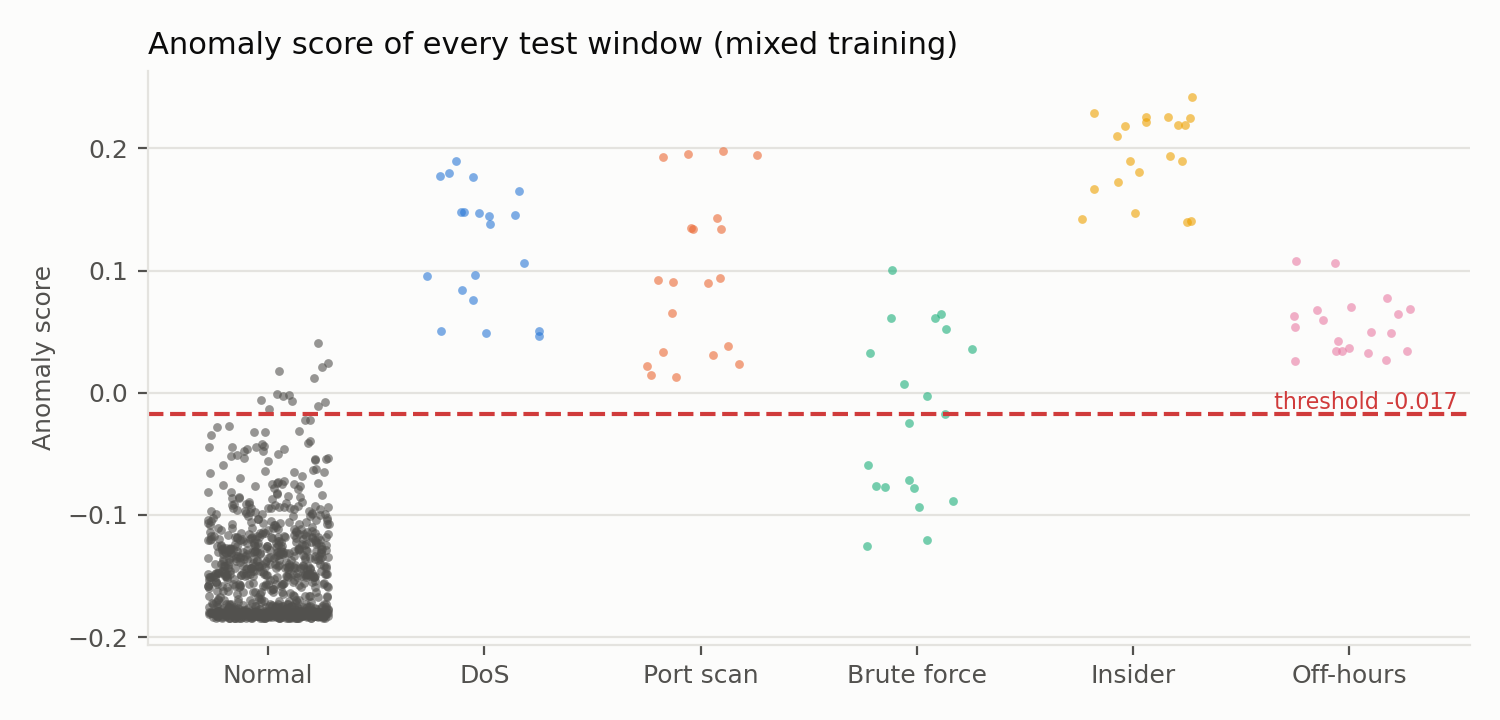
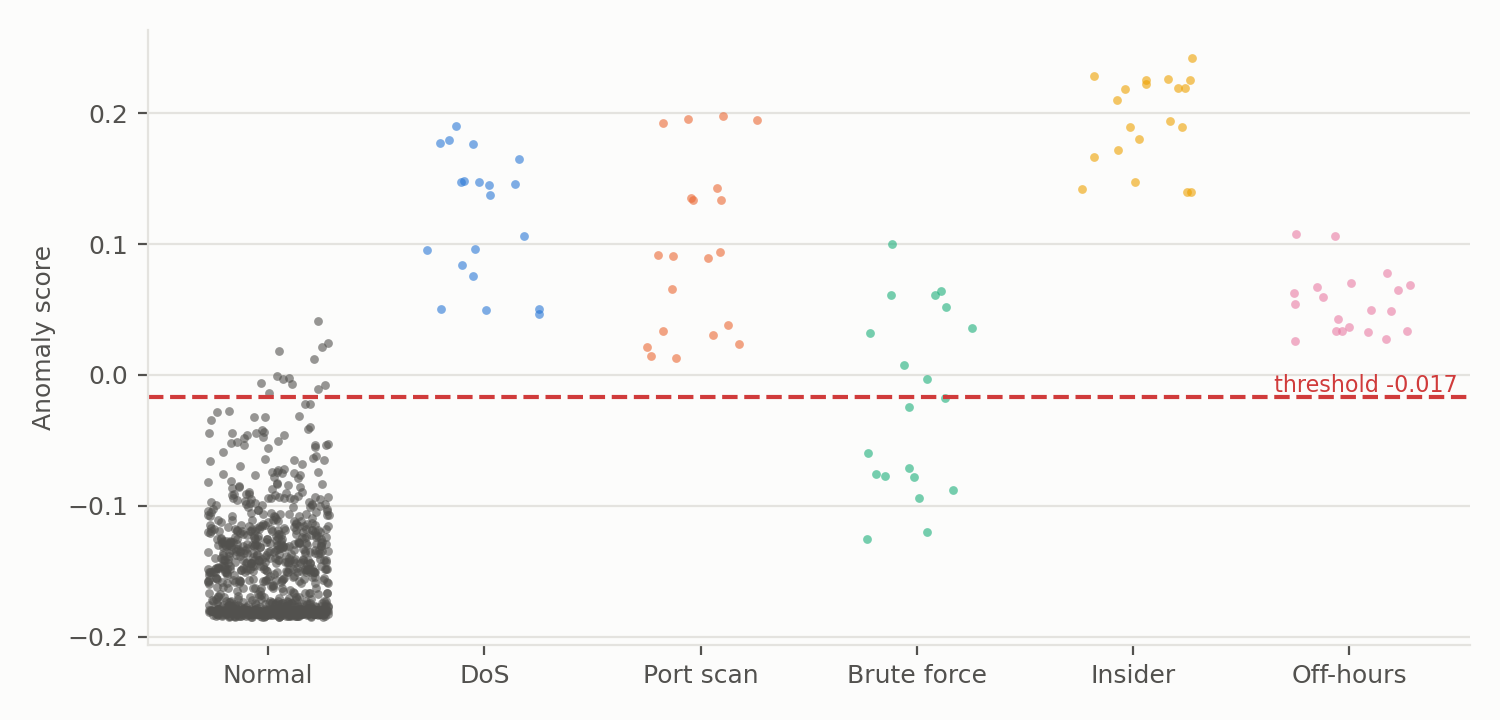
Charts without in-image titles (captions are the titles); rehearsal scripts

diff --git a/rehearsal_report.py b/rehearsal_report.py
@@ -1,0 +1,59 @@
+#!/usr/bin/env python3
+"""Summarise a rehearsal folder (see rehearsal.sh): actions and timings from the incident
+log, lowest free memory, and what Zabbix received during the run (via its API).
+Writes summary.json, including a paragraph for Chapter 5, and prints the summary."""
+import json
+import os
+import sys
+
+import zbx_setup as zs
+
+out = sys.argv[1]
+start = int(open(os.path.join(out, "start_epoch")).read())
+inc = [json.loads(l) for l in open(os.path.join(out, "incidents.jsonl"))]
+mem = [int(l.split()[1]) for l in open(os.path.join(out, "memory.log")) if len(l.split()) == 2]
+
+first = {}
+for i in inc:
+    if "already" not in i["attack"] and i["attack"] not in first:
+        first[i["attack"]] = i
+expected = {"dos": "BLOCKED", "portscan": "QUARANTINED", "bruteforce": "QUARANTINED",
+            "insider": "DISABLED", "offhours": "ALERT ONLY"}
+ok = {a: a in first and first[a]["action"].startswith(v) for a, v in expected.items()}
+false_alerts = [i for i in inc if i["attack"] == "unclassified"]
+drastic_mistakes = [i for i in inc if i["attack"] not in expected and "already" not in i["attack"]
+                    and i["action"] != "ALERT ONLY"]
+
+zs.login()
+pcs = ["zt-admin-pc", "zt-staff-pc", "zt-guest-pc"]
+hosts = {h["hostid"]: h["host"] for h in zs.api("host.get", {"filter": {"host": pcs}, "output": ["host"]})}
+scores = zs.api("item.get", {"hostids": list(hosts), "filter": {"key_": "zt.anomaly.score"}, "output": ["itemid"]})
+nscores = sum(len(zs.api("history.get", {"itemids": [s["itemid"]], "history": 0, "time_from": start,
+                                         "output": "extend"})) for s in scores)
+actions = zs.api("item.get", {"hostids": list(hosts), "filter": {"key_": "zt.action"}, "output": ["itemid"]})
+nactions = sum(len(zs.api("history.get", {"itemids": [a["itemid"]], "history": 4, "time_from": start,
+                                          "output": "extend"})) for a in actions)
+problems = zs.api("event.get", {"time_from": start, "source": 0, "object": 0, "value": 1,
+                                "search": {"name": "Security alert"}, "output": ["name"]})
+
+s = {
+    "attacks_answered_correctly": sum(ok.values()), "per_attack": {a: (first[a]["action"], first[a].get("response_ms"))
+                                                                   if a in first else None for a in expected},
+    "false_alerts_alert_only": len(false_alerts), "wrong_drastic_actions": len(drastic_mistakes),
+    "min_free_mb": min(mem) if mem else None, "zabbix_scores": nscores, "zabbix_actions": nactions,
+    "zabbix_security_problems": len(problems),
+}
+times = [first[a]["response_ms"] / 1000 for a in expected if a in first]
+s["paragraph"] = (
+    f"A final rehearsal of the full demonstration repeated the end-to-end test with Zabbix and the push loop running. "
+    f"{s['attacks_answered_correctly']} of the 5 attacks were answered automatically with the expected action, "
+    + (f"{min(times):.1f} to {max(times):.1f} seconds after the window closed, " if times else "")
+    + f"and Zabbix received {nscores} anomaly scores, {nactions} response actions and {len(problems)} security-alert "
+    f"problems during the run. "
+    + (f"{len(false_alerts)} alert-only false alarm{'s' if len(false_alerts) != 1 else ''} occurred and no user was "
+       f"blocked, quarantined or disabled by mistake. " if not drastic_mistakes else
+       f"{len(drastic_mistakes)} drastic action(s) were taken by mistake. ")
+    + (f"The lowest free memory during the run was {min(mem)} MB." if mem else ""))
+json.dump(s, open(os.path.join(out, "summary.json"), "w"), indent=2)
+print(json.dumps({k: v for k, v in s.items() if k != "paragraph"}, indent=2))
+print("\n" + s["paragraph"])

diff --git a/zt_model.py b/zt_model.py
@@ -211,7 +211,6 @@ def charts(results, summaries):
     ax.set_xticks(xs, [LABEL[t] for t in types])
     ax.set_ylim(0, 112)
     ax.set_ylabel("Attack windows detected (%)", color=INK2, fontsize=9)
-    ax.set_title("Detection rate by attack type (5-fold, held-out runs)", color=INK, fontsize=11, loc="left")
     ax.legend(frameon=False, fontsize=8, loc="upper left", bbox_to_anchor=(0, -0.12), ncol=3)
     fig.text(0.99, 0.01, f"False-positive rate: normal-only {fpr['normal-only']:.1f}%, mixed {fpr['mixed']:.1f}%, "
              f"hybrid {fpr['hybrid']:.1f}%",
@@ -235,7 +234,6 @@ def charts(results, summaries):
     ax.text(len(order) - 0.5, thr, f" threshold {thr:.3f}", va="bottom", ha="right", fontsize=8, color="#d03b3b")
     ax.set_xticks(range(len(order)), [LABEL[t] for t in order])
     ax.set_ylabel("Anomaly score", color=INK2, fontsize=9)
-    ax.set_title("Anomaly score of every test window (mixed training)", color=INK, fontsize=11, loc="left")
     fig.tight_layout()
     fig.savefig(os.path.join(RESULTS, "score_distribution.png"), dpi=200)
     plt.close(fig)
@@ -252,7 +250,6 @@ def charts(results, summaries):
     ax.set_yticks([0, 1], ["Normal", "Attack"])
     ax.set_xlabel("Predicted", color=INK2, fontsize=9)
     ax.set_ylabel("Actual", color=INK2, fontsize=9)
-    ax.set_title("Confusion matrix (hybrid detector)", color=INK, fontsize=11, loc="left")
     ax.tick_params(colors=INK2, labelsize=9)
     for s in ax.spines.values():
         s.set_visible(False)
